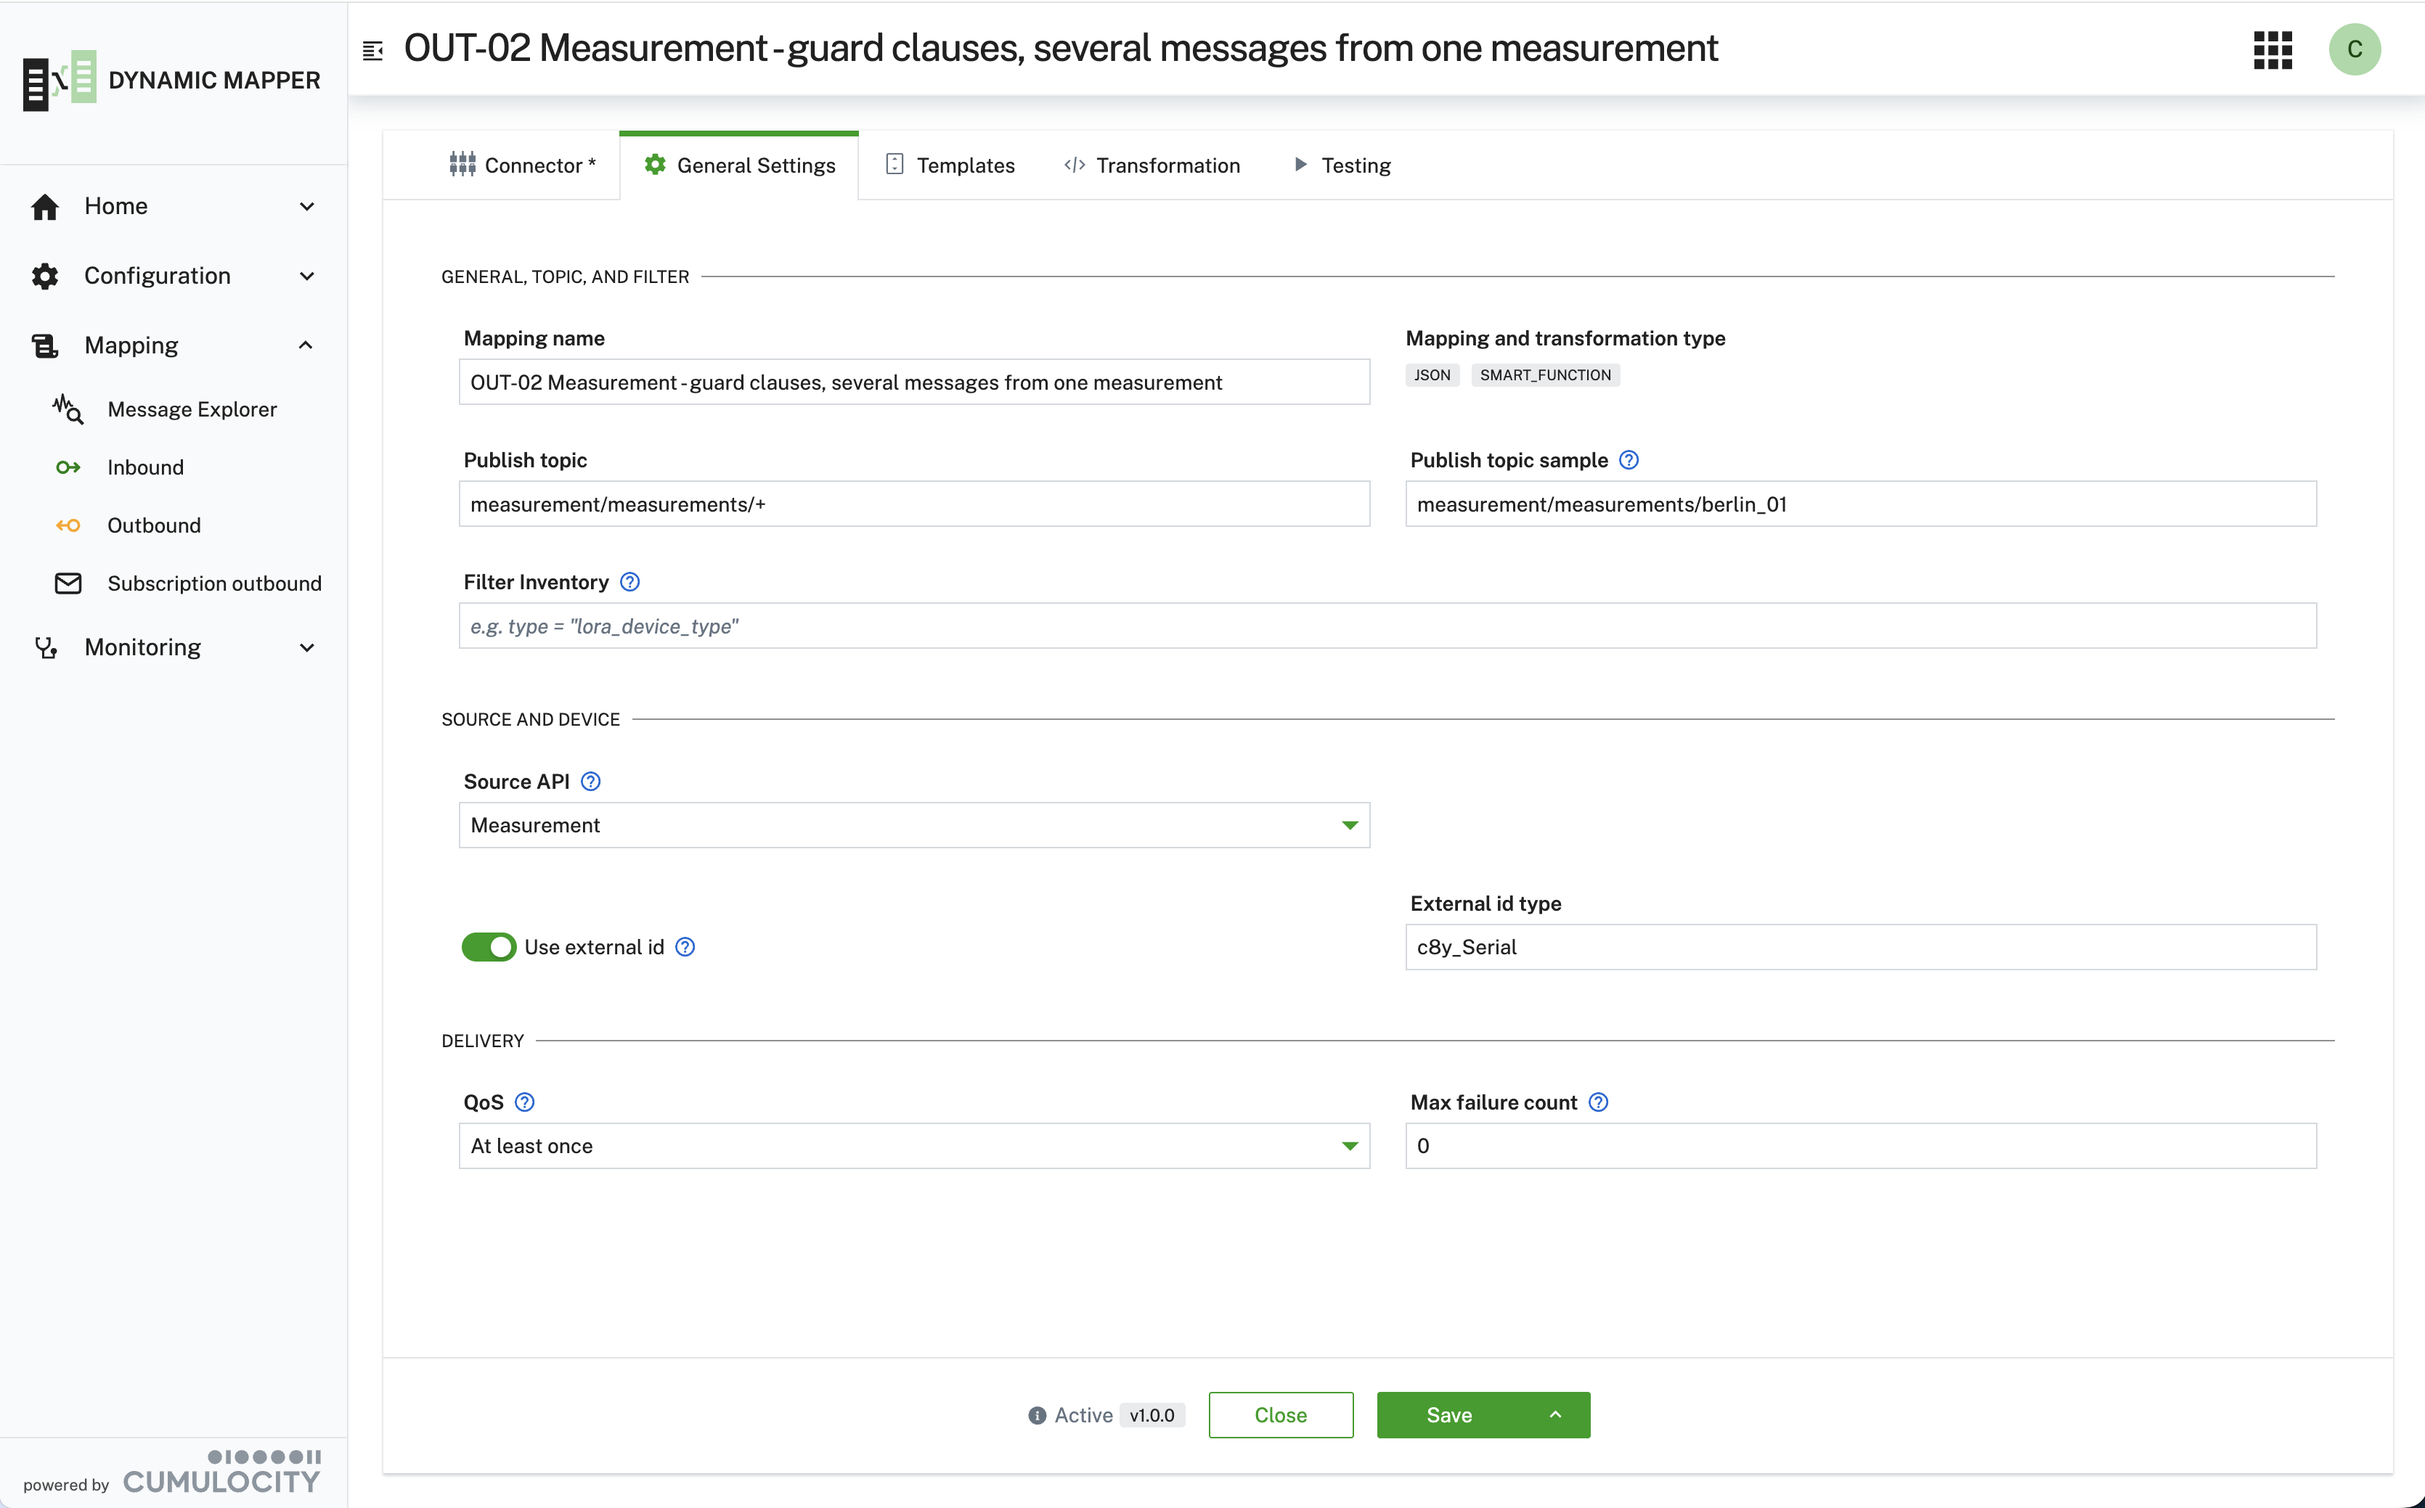
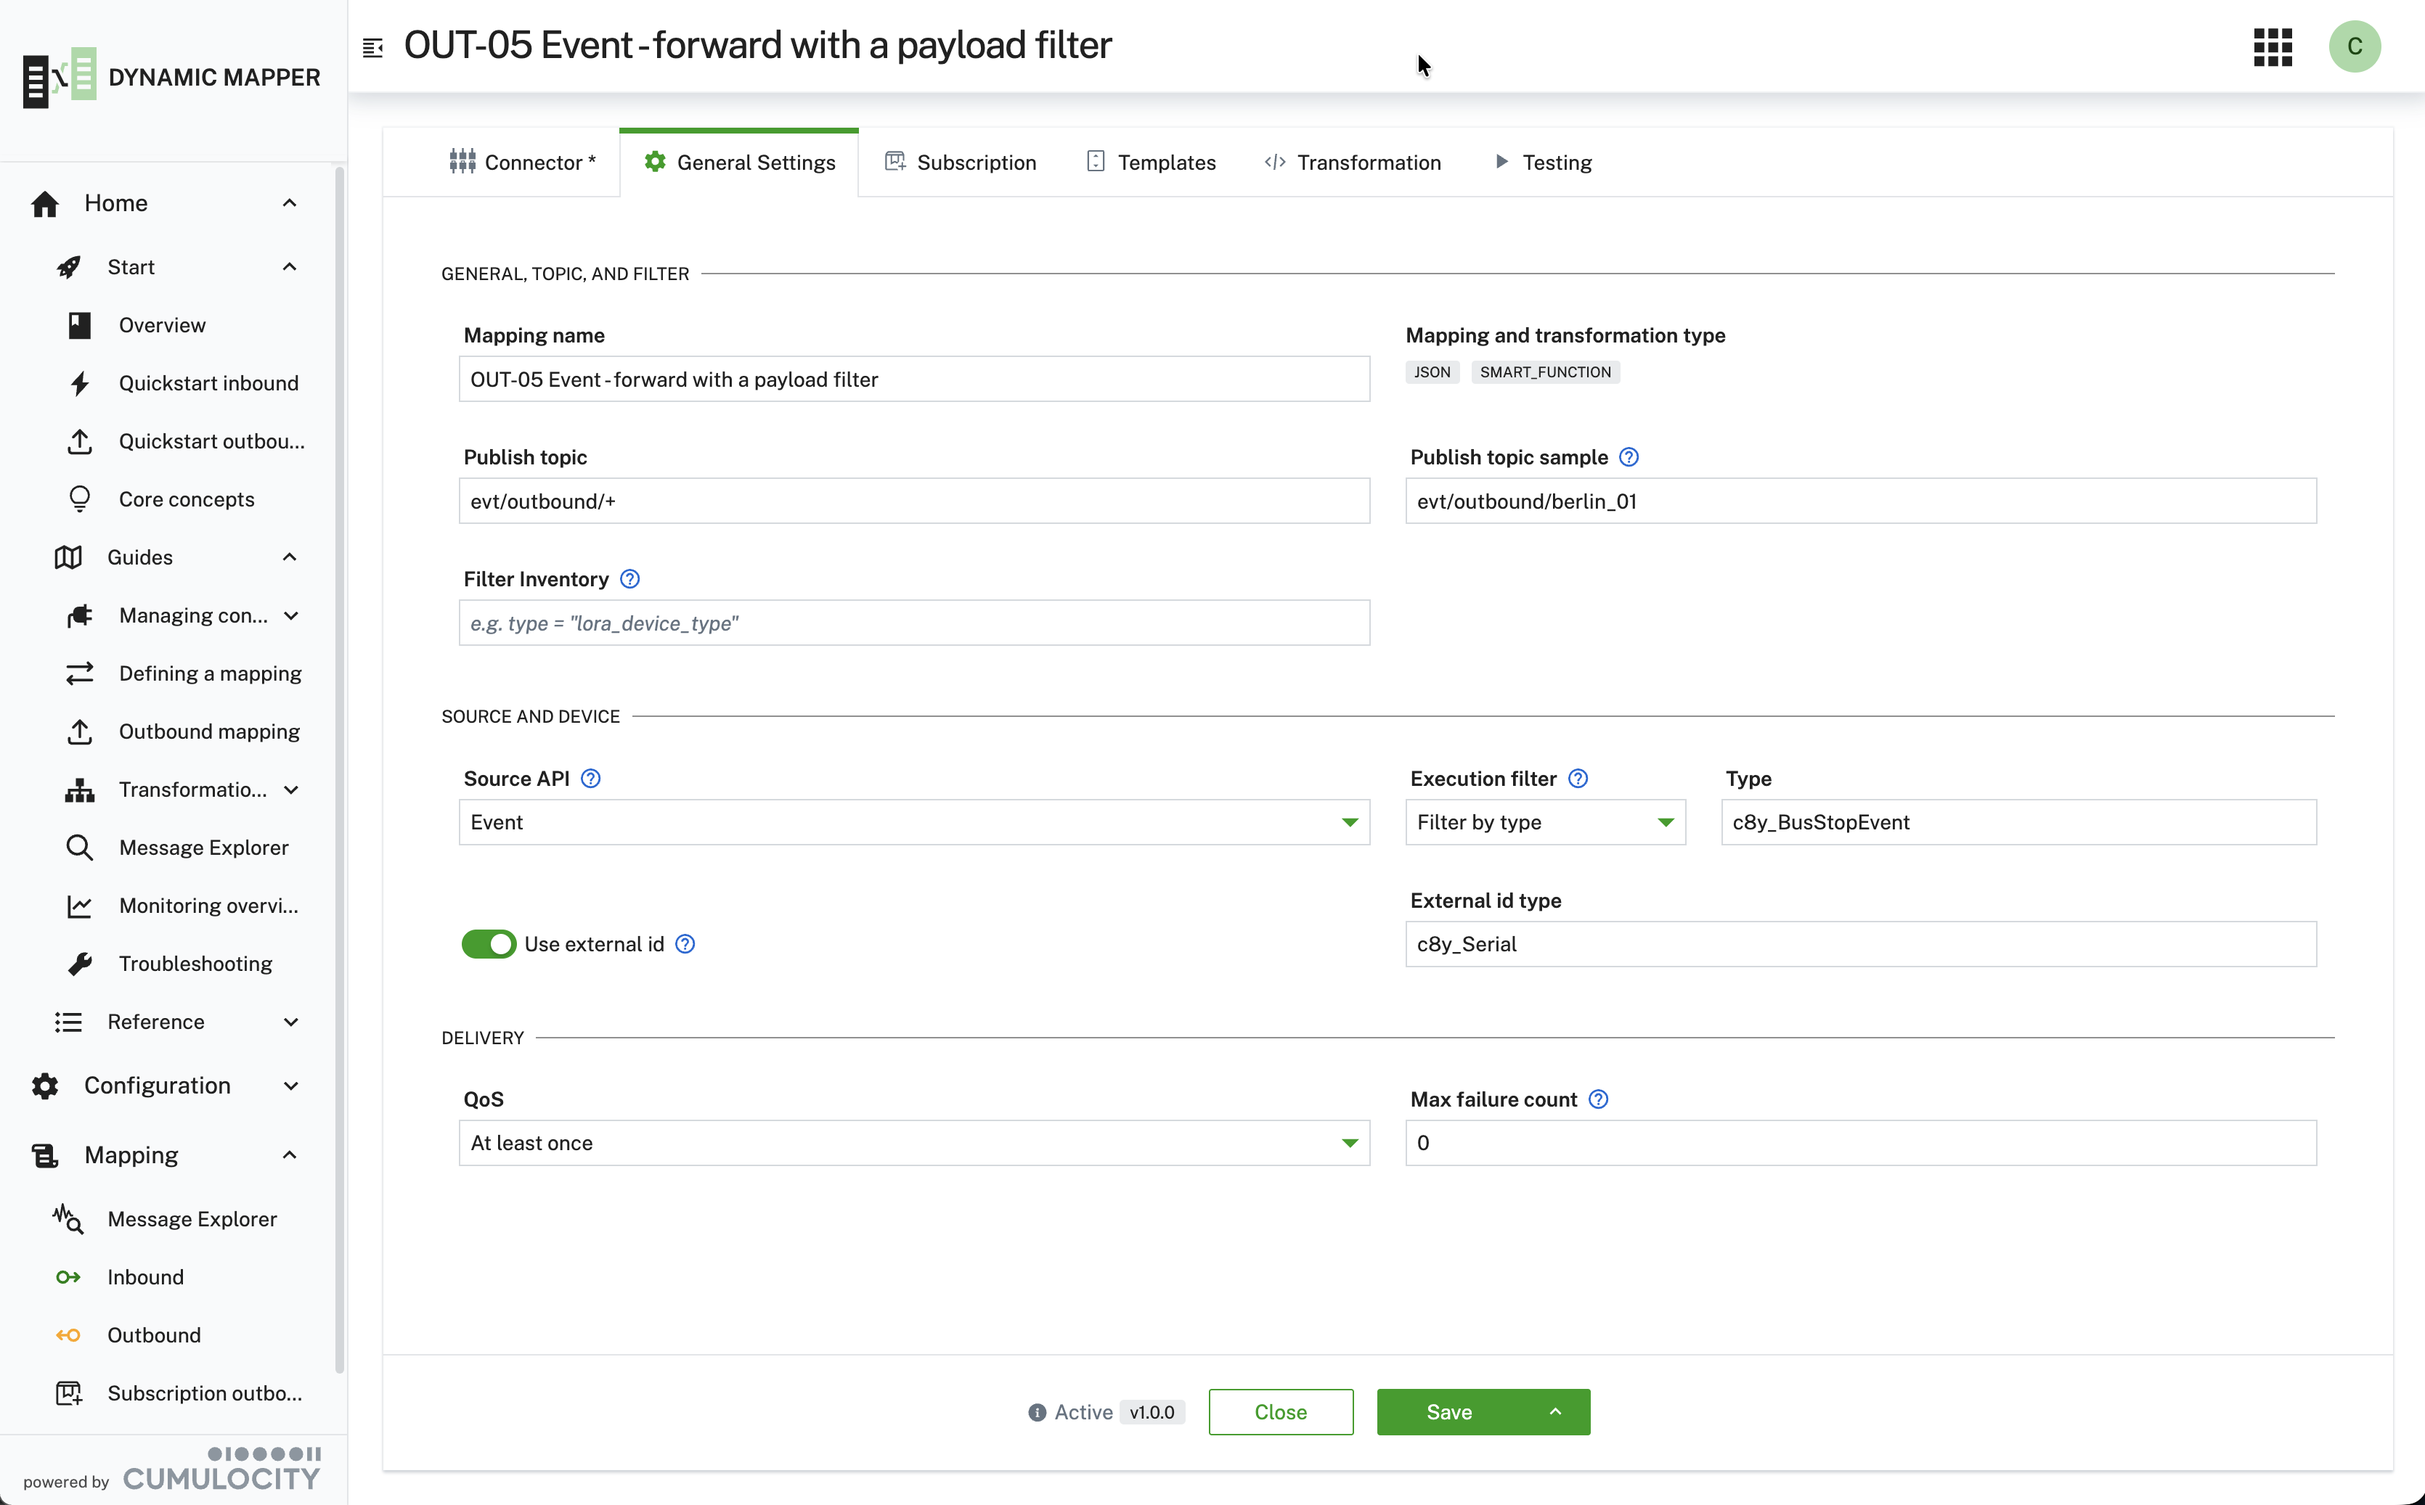
Restrict Explorer multi-select to inbound, drop save toast, update docs
- Message Explorer: the grid is not selectable for an outbound session and
  "create mapping from selected messages" is refused for outbound messages.
- Remove the post-save "a subscription is required" toast from the stepper
  and the unified editor; activation and publish still refuse and explain.
- Docs: wizard flow and subscription save-order diagrams, description of the
  radio options and the device table drawer, new Subscription step screenshot
  (registered in cumulocity.config.ts), refreshed outbound screenshots.
- Home page: keep the space between the live counts and their labels.

diff --git a/dynamic-mapper-ui/src/mapping/unified-editor/mapping-unified-editor.component.ts b/dynamic-mapper-ui/src/mapping/unified-editor/mapping-unified-editor.component.ts
@@ -41,7 +41,6 @@ import {
   MappingType
 } from '../../shared';
 import { MappingService } from '../core/mapping.service';
-import { SubscriptionService } from '../core/subscription.service';
 import { MappingEditData } from '../core/mapping-edit.resolver';
 import {
   StepId
@@ -140,7 +139,6 @@ export class MappingUnifiedEditorComponent extends MappingEditorBase implements 
   private readonly mappingService = inject(MappingService);
   private readonly commitService = inject(MappingCommitService);
   private readonly publishService = inject(MappingPublishService);
-  private readonly subscriptionService = inject(SubscriptionService);
   private readonly route = inject(ActivatedRoute);
   private readonly router = inject(Router);
   private readonly globalContextService = inject(GlobalContextService);
@@ -387,21 +385,6 @@ export class MappingUnifiedEditorComponent extends MappingEditorBase implements 
     // Saving closes the editor. Re-baselining first matters: navigation is guarded by
     // unsavedChangesGuard, which would otherwise see the just-saved edits as unsaved and prompt.
     this.rebaselineAfterSave(result.persisted, !!result.deploymentFailed);
-
-    // Shared with the stepper's commit path (mapping.component.ts::onCommitMapping) so both
-    // editors apply the same post-save check — an OUTBOUND mapping with no device subscribed
-    // to receive it otherwise silently does nothing once activated.
-    // It is advisory and the mapping is already saved, so a failure must not strand the user in
-    // an editor whose state was just rebaselined. Save & Activate skips it: activation runs the
-    // same check and refuses, so showing it twice would only add noise.
-    if (!activateAfterSave) {
-      try {
-        await this.subscriptionService.validateSubscriptionOutbound(this.stepperConfiguration.direction);
-      } catch (error) {
-        console.error('Post-save subscription check failed:', error);
-        this.alertService.warning(gettext('The mapping was saved, but checking the device subscriptions failed.'));
-      }
-    }
 
     // The mapping is saved but its connector assignment is not (error alert already raised):
     // stay in the editor so the selection isn't lost and Save can retry the deployment.

diff --git a/dynamic-mapper-ui/src/introduction/doc-overview.component.html b/dynamic-mapper-ui/src/introduction/doc-overview.component.html
@@ -34,17 +34,14 @@
     <!-- Native widget: live mapping/connector counts — needs real app state, so it stays as an
          actual Angular template rather than markdown (content set via [innerHTML] is never
          evaluated by Angular, so bindings/pipes here would otherwise just print as literal text). -->
+    <!-- &ngsp; keeps a space between inline elements: Angular drops whitespace-only text nodes between them,
+         which would print "20inbound and27outbound". -->
     <ul class="text-16">
       <li>
-        <b>{{ countMappingInbound$ | async }}</b>
-        <a [routerLink]="ROUTE_INBOUND"> <span translate>inbound</span></a> <span translate>and</span>
-        <b>{{ countMappingOutbound$ | async }}</b>
-        <a [routerLink]="ROUTE_OUTBOUND"> <span translate>outbound</span></a>
-        <span translate>mappings are currently defined.</span>
+        <b>{{ countMappingInbound$ | async }}</b>&ngsp;<a [routerLink]="ROUTE_INBOUND"><span translate>inbound</span></a>&ngsp;<span translate>and</span>&ngsp;<b>{{ countMappingOutbound$ | async }}</b>&ngsp;<a [routerLink]="ROUTE_OUTBOUND"><span translate>outbound</span></a>&ngsp;<span translate>mappings are currently defined.</span>
       </li>
       <li>
-        <b>{{ countConnector$ | async }}</b>
-        <a [routerLink]="ROUTE_CONNECTORS"> <span translate>connectors</span></a> <span translate>are currently defined.</span>
+        <b>{{ countConnector$ | async }}</b>&ngsp;<a [routerLink]="ROUTE_CONNECTORS"><span translate>connectors</span></a>&ngsp;<span translate>are currently defined.</span>
       </li>
     </ul>
 

diff --git a/dynamic-mapper-ui/src/mapping/unified-editor/mapping-unified-editor.component.spec.ts b/dynamic-mapper-ui/src/mapping/unified-editor/mapping-unified-editor.component.spec.ts
@@ -284,9 +284,8 @@ describe('MappingUnifiedEditorComponent', () => {
         { provide: ActivatedRoute, useValue: activatedRoute },
         { provide: Location, useValue: jasmine.createSpyObj('Location', ['back', 'path']) },
         { provide: GlobalContextService, useValue: mockGlobalContextService },
-        // The component injects SubscriptionService, whose real constructor takes a
-        // FetchClient the test injector cannot provide (NG0201). It is only used for
-        // validateSubscriptionOutbound(), so a spy is enough.
+        // MappingPublishService injects SubscriptionService, whose real constructor takes a
+        // FetchClient the test injector cannot provide (NG0201), so a spy is enough.
         { provide: SubscriptionService, useValue: mockSubscriptionService },
         provideTranslateStub()
       ]

diff --git a/dynamic-mapper-ui/cumulocity.config.ts b/dynamic-mapper-ui/cumulocity.config.ts
@@ -211,6 +211,10 @@ export default {
         to: 'image/Dynamic_Mapper_Mapping_Stepper_Topic_Outbound.png'
       },
       {
+        from: '../resources/image-optimized/Dynamic_Mapper_Mapping_Stepper_Subscription_Dynamic.png',
+        to: 'image/Dynamic_Mapper_Mapping_Stepper_Subscription_Dynamic.png'
+      },
+      {
         from: '../resources/image-optimized/Dynamic_Mapper_Mapping_Stepper_Outbound_subscription.png',
         to: 'image/Dynamic_Mapper_Mapping_Stepper_Outbound_subscription.png'
       },

diff --git a/dynamic-mapper-ui/src/mapping/message-explorer/message-explorer.component.ts b/dynamic-mapper-ui/src/mapping/message-explorer/message-explorer.component.ts
@@ -577,6 +577,8 @@ export class MessageExplorerComponent implements OnInit, AfterViewInit, OnDestro
   }
 
   private canCombine(msgs: IndexedMessage[]): boolean {
+    // Outbound mappings are built from one message: its type decides the filter, the subscription and the source API.
+    if (msgs.some(m => m.direction === 'OUTBOUND')) return false;
     return msgs.length >= 2
       && msgs.length <= MAX_EXPLORER_SAMPLES
       && msgs.every(m => samplePayloadKind(m) === samplePayloadKind(msgs[0]))

diff --git a/dynamic-mapper-ui/src/mapping/grid/mapping.component.ts b/dynamic-mapper-ui/src/mapping/grid/mapping.component.ts
@@ -639,8 +639,6 @@ export class MappingComponent implements OnInit, OnDestroy {
     if (alert) this.alertService.add({ text: alert.text, type: 'success', timeout: alert.timeout });
 
     this.showConfigMapping = false;
-
-    this.subscriptionService.validateSubscriptionOutbound(this.stepperConfiguration.direction);
   }
 
   /**

diff --git a/dynamic-mapper-ui/src/mapping/message-explorer/message-explorer.component.html b/dynamic-mapper-ui/src/mapping/message-explorer/message-explorer.component.html
@@ -176,7 +176,7 @@
       [actionControls]="actionControls"
       [bulkActionControls]="bulkActionControls"
       [configureColumnsEnabled]="false"
-      [selectable]="true">
+      [selectable]="sessionDirection !== 'OUTBOUND'">
     </c8y-data-grid>
   }
 

diff --git a/dynamic-mapper-ui/public/docs/define-subscription-for-outbound.md b/dynamic-mapper-ui/public/docs/define-subscription-for-outbound.md
@@ -36,6 +36,36 @@ subscription while you define the mapping. They appear for outbound mappings onl
 | **Dynamic** | Subscribe by device type (**Manage subscriptions (by device type)**) or by device group (**Manage subscriptions (by device groups)**). |
 | **Static** | Subscribe specific devices (**Manage subscriptions (device selection)** or **Add subscriptions (device table)**). |
 
+Choosing **Dynamic** or **Static** opens its options as radio options. Only the selected option is expanded, and the
+first one is selected for you:
+
+- **Dynamic**: **Manage subscriptions (by device type)** shows the list of device types. **Manage subscriptions (by device groups)** shows the group selector.
+- **Static**: **Manage subscriptions (device selection)** shows the device tree. **Add subscriptions (device table)** opens the device table in a drawer, because the table needs more room than the page has. After you close the drawer, the option stays selected and **Open device table** opens it again.
+
+Each option shows how many entries are selected and a **not saved yet** label while you have unsaved changes. The
+lists show the subscriptions of the whole tenant, not only those of this mapping.
+
+![Subscription step with Dynamic selected](../../../resources/image/Dynamic_Mapper_Mapping_Stepper_Subscription_Dynamic.png "The Subscription tab of an outbound mapping with Dynamic and Manage subscriptions (by device type) selected.")
+
+```mermaid
+flowchart LR
+    choose["Choose Skip, Dynamic, or Static<br/>in the Subscription step"]
+    save["Save the mapping"]
+    saved["Mapping is saved"]
+    write["Subscriptions are written<br/>types, groups, or devices"]
+    async["Processed asynchronously<br/>verify on the Subscription outbound page"]
+    warn["Warning is shown<br/>the mapping stays saved"]
+
+    choose --> save
+    save --> saved
+    saved --> write
+    write -- "succeeds" --> async
+    write -- "fails" --> warn
+
+    classDef outbound fill:#e8f0fa,stroke:#316ca8,stroke-width:2px;
+    class choose outbound;
+```
+
 The selection is written when you save the mapping, after the mapping itself was saved. Cancel the editor and
 nothing changes. The lists start from the current subscriptions, so you can also remove a type, group, or device. The
 removal is applied on save. If the saving of the subscription fails, the mapping stays saved, a warning explains

diff --git a/dynamic-mapper-ui/public/docs/define-mapping.md b/dynamic-mapper-ui/public/docs/define-mapping.md
@@ -58,6 +58,26 @@ The wizard has five steps:
 (so six steps, and the unified editor has a **Subscription** tab at the same place). It decides which devices
 trigger the mapping. See [Defining a subscription for outbound mapping](/c8y-pkg-dynamic-mapper/introduction/define-subscription-for-outbound#in-the-mapping-editor).
 
+```mermaid
+flowchart LR
+    conn["Connector"]
+    gen["General settings"]
+    sub["Subscription<br/>outbound only"]
+    tpl["Select templates"]
+    trans["Transformation"]
+    test["Test mapping"]
+
+    conn --> gen
+    gen -- "inbound" --> tpl
+    gen -- "outbound" --> sub
+    sub --> tpl
+    tpl --> trans
+    trans --> test
+
+    classDef outbound fill:#e8f0fa,stroke:#316ca8,stroke-width:2px;
+    class sub outbound;
+```
+
 For **Any Payload** and **SparkPlug B** mappings the wizard shows no source or target template editors, because the
 payload is binary. To see a real binary message, use the
 [Message Explorer](/c8y-pkg-dynamic-mapper/introduction/message-explorer).
